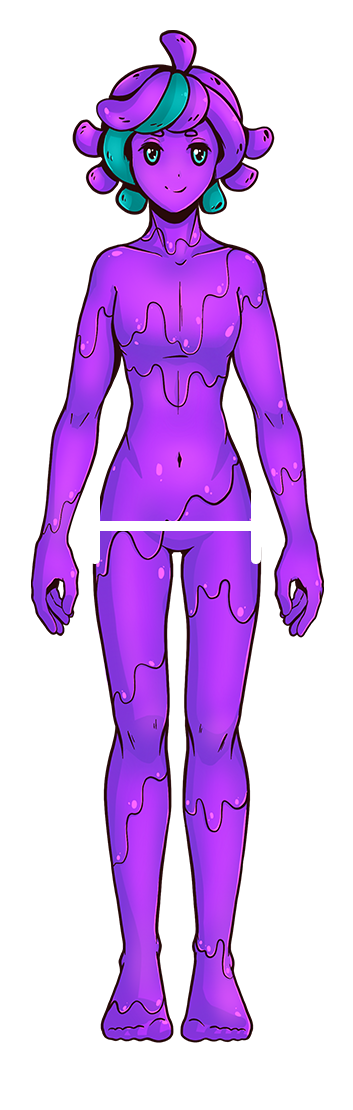
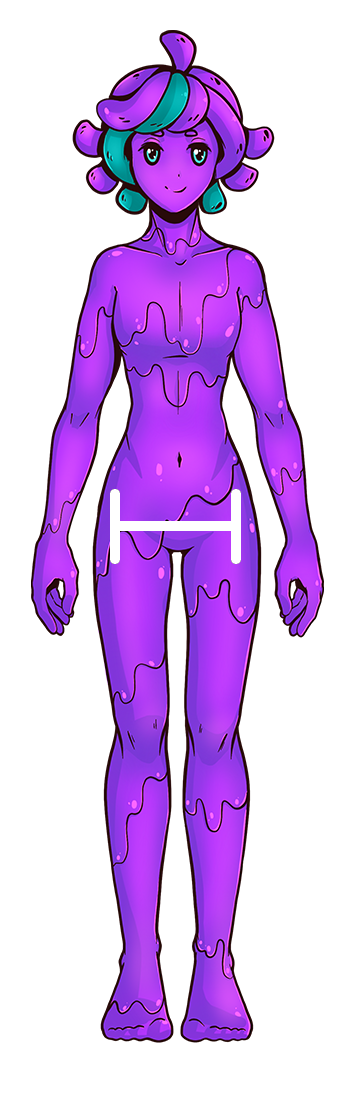
Small changes based on feedback (hip width and wording on manual config)

Changed region(s): [[0.6544, 0.4288, 0.7479, 0.5207], [0.2493, 0.4288, 0.3428, 0.5207]]

diff --git a/src/server/body-config.md b/src/server/body-config.md
@@ -31,6 +31,10 @@ While these values can be input directly into the SlimeVR server, it is recommen
             <summary id="hip">Hip Length (est. 2-6)</summary>
             This length is used for calculating hip movement, experiment with it but it should be between 2 and 6.
          </details>
+         <details open="">
+            <summary id="hw">Hips width</summary>
+            The hips width value is the distance between your femurs.
+         </details>
          <details>
             <summary id="ul">Upper Leg Length (est. 35-60)</summary>
             The Uppder Leg Length is from your hip to your knee.
@@ -115,7 +119,7 @@ For more information on how AutoBone functions, check [how autobone works](#how-
 
 ## Configuring Body Proportions Manually
 
-All this configuration can be done from the SteamVR dashboard or within VRChat (in front of a mirror). All measurements are in centimeters. Press `+` or `-` to change lengths by 1 cm. Pressing **Reset** will change the value to a default based on the HMDs current height.
+All this configuration can be done from the SteamVR dashboard or within VRChat (in front of a mirror). Press the `+` or `-` buttons to change lengths, all lengths are in centimeters. Pressing **Reset all proportions** will change the value to a default based on the HMDs current height.
 
 Make sure you have [proper mounting](putting-on-trackers.md) before doing this as it will influence your results.
 
